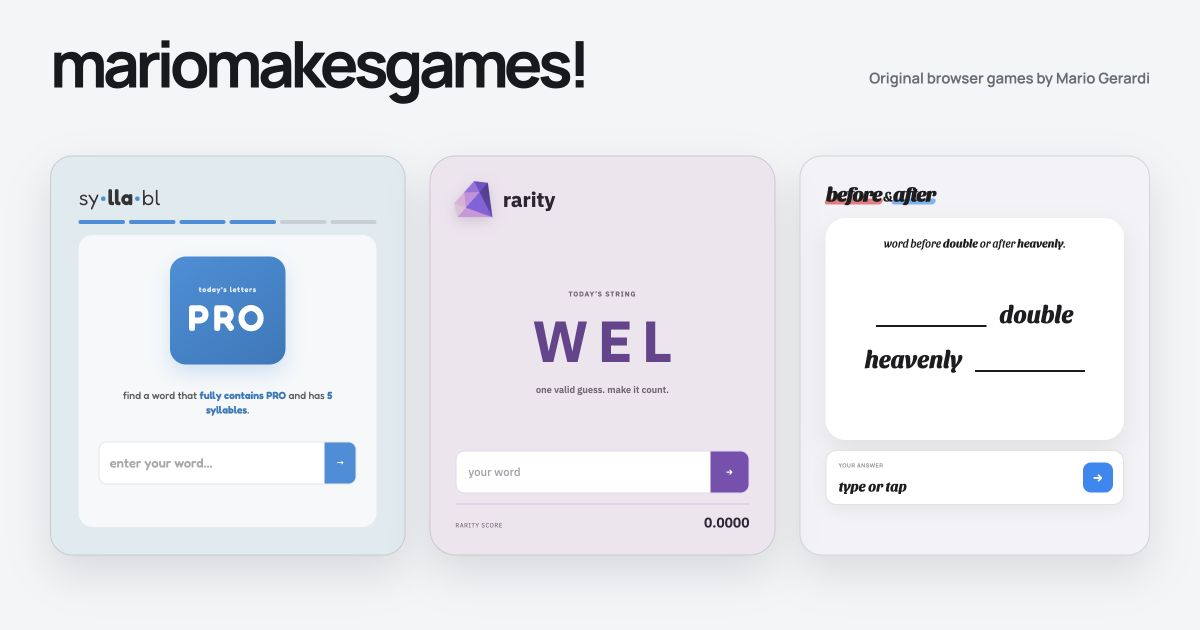
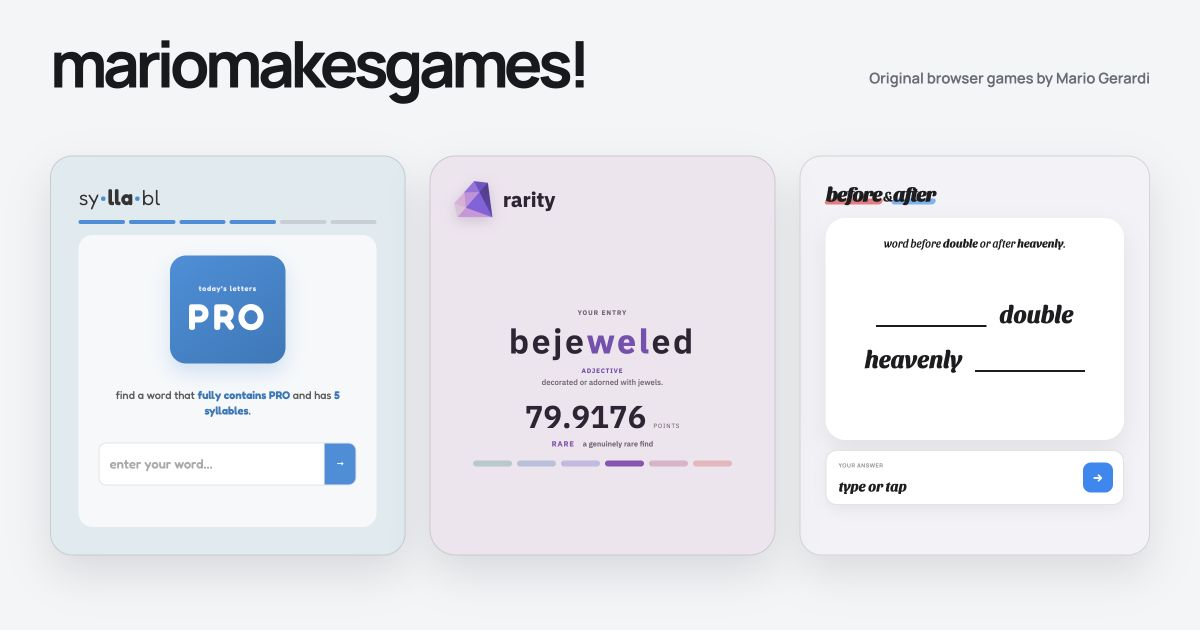
Give Rarity cameo an authentic result state

diff --git a/app/globals.css b/app/globals.css
@@ -19036,7 +19036,7 @@ body:has(.syllabl-game-card .syllabl-play) {
 .site-frame:not([data-game]) .preview-syllabl-panel > p {
   max-width: 96%;
   margin: 0 auto;
-  font-size: clamp(.62rem, .86vw, .74rem);
+  font-size: clamp(.68rem, .92vw, .8rem);
   line-height: 1.4;
 }
 
@@ -19082,6 +19082,126 @@ body:has(.syllabl-game-card .syllabl-play) {
   font: 550 clamp(.58rem, .78vw, .69rem) "IBM Plex Sans", var(--sans);
   line-height: 1.35;
   text-align: center;
+}
+
+.site-frame:not([data-game]) .preview-rarity-result {
+  display: grid;
+  flex: 1;
+  width: 100%;
+  align-content: center;
+  justify-items: center;
+  color: #2f2434;
+  animation: preview-rarity-result-in 260ms ease both;
+}
+
+.site-frame:not([data-game]) .preview-rarity-result > small {
+  color: #746775;
+  font: 750 clamp(.4rem, .55vw, .49rem) "IBM Plex Sans", var(--sans);
+  letter-spacing: .14em;
+  text-transform: uppercase;
+}
+
+.site-frame:not([data-game]) .preview-rarity-result > strong {
+  max-width: 100%;
+  margin-top: 7px;
+  overflow-wrap: anywhere;
+  font: 600 clamp(1.55rem, 2.8vw, 2.35rem) "IBM Plex Sans", var(--sans);
+  letter-spacing: .08em;
+  line-height: 1;
+  text-transform: lowercase;
+}
+
+.site-frame:not([data-game]) .preview-rarity-result mark {
+  color: #7b4eb2;
+  background: transparent;
+  font-weight: 650;
+}
+
+.site-frame:not([data-game]) .preview-rarity-definition {
+  display: grid;
+  gap: 2px;
+  max-width: 92%;
+  margin: 9px 0 0;
+  color: #746775;
+  font: 500 clamp(.48rem, .65vw, .58rem) "IBM Plex Sans", var(--sans);
+  line-height: 1.35;
+  text-align: center;
+}
+
+.site-frame:not([data-game]) .preview-rarity-definition em {
+  color: #7b4eb2;
+  font-size: .82em;
+  font-style: normal;
+  font-weight: 650;
+  letter-spacing: .12em;
+  text-transform: uppercase;
+}
+
+.site-frame:not([data-game]) .preview-rarity-result-score {
+  display: flex;
+  gap: 7px;
+  align-items: baseline;
+  margin-top: 13px;
+  font-family: "IBM Plex Sans", var(--sans);
+}
+
+.site-frame:not([data-game]) .preview-rarity-result-score b {
+  font-size: clamp(1.45rem, 2.6vw, 2.15rem);
+  font-weight: 600;
+  font-variant-numeric: tabular-nums;
+  line-height: 1;
+}
+
+.site-frame:not([data-game]) .preview-rarity-result-score span {
+  color: #746775;
+  font-size: clamp(.38rem, .5vw, .46rem);
+  letter-spacing: .14em;
+  text-transform: uppercase;
+}
+
+.site-frame:not([data-game]) .preview-rarity-result-tier {
+  display: flex;
+  gap: 8px;
+  align-items: baseline;
+  margin-top: 7px;
+  font: 550 clamp(.45rem, .62vw, .56rem) "IBM Plex Sans", var(--sans);
+}
+
+.site-frame:not([data-game]) .preview-rarity-result-tier b {
+  color: #8d52b5;
+  letter-spacing: .12em;
+  text-transform: uppercase;
+}
+
+.site-frame:not([data-game]) .preview-rarity-result-tier span { color: #746775; }
+
+.site-frame:not([data-game]) .preview-rarity-tier-track {
+  display: grid;
+  grid-template-columns: repeat(6, 1fr);
+  gap: 5px;
+  width: min(88%, 290px);
+  margin-top: 12px;
+}
+
+.site-frame:not([data-game]) .preview-rarity-tier-track i {
+  height: 6px;
+  border-radius: 999px;
+}
+
+.site-frame:not([data-game]) .preview-rarity-tier-track i:nth-child(1) { background: rgb(47 143 131 / .32); }
+.site-frame:not([data-game]) .preview-rarity-tier-track i:nth-child(2) { background: rgb(71 118 184 / .32); }
+.site-frame:not([data-game]) .preview-rarity-tier-track i:nth-child(3) { background: rgb(106 96 200 / .32); }
+.site-frame:not([data-game]) .preview-rarity-tier-track i:nth-child(4) { background: rgb(141 82 181 / .32); }
+.site-frame:not([data-game]) .preview-rarity-tier-track i:nth-child(5) { background: rgb(182 70 122 / .32); }
+.site-frame:not([data-game]) .preview-rarity-tier-track i:nth-child(6) { background: rgb(217 79 82 / .32); }
+.site-frame:not([data-game]) .preview-rarity-tier-track i.is-current {
+  background: #8d52b5;
+  box-shadow: 0 0 0 2px #eee5ef;
+}
+
+@keyframes preview-rarity-result-in {
+  from { opacity: 0; transform: translateY(5px); }
+  to { opacity: 1; transform: translateY(0); }
 }
 
 .site-frame:not([data-game]) .preview-rarity-entry {

diff --git a/src/app-shell/hero-game-previews.tsx b/src/app-shell/hero-game-previews.tsx
@@ -27,7 +27,7 @@ function useCenteredDemo(answer: string) {
 
   useEffect(() => {
     const card = cardRef.current;
-    const gallery = card?.closest(".hero-gallery");
+    const gallery = card?.closest(".hero-gallery, .social-card-render__games");
     const prefersReducedMotion = window.matchMedia("(prefers-reduced-motion: reduce)").matches;
     if (!card || !gallery || prefersReducedMotion) return;
 
@@ -184,26 +184,39 @@ function RarityPreview() {
         <span>rarity</span>
       </div>
       <div className="preview-rarity-panel">
-        <div className="preview-rarity-string-block">
-          <small>today’s string</small>
-          <strong>WEL</strong>
-          <p>
-            {phase === "submitted"
-              ? "checking the field…"
-              : phase === "feedback"
-                ? "accepted. your one guess is locked."
-                : "one valid guess. make it count."}
-          </p>
-        </div>
-        <div className="preview-rarity-entry">
-          <span className="preview-entry-value" data-preview-entry>
-            {typedAnswer || "your word"}
-          </span>
-          <b>{phase === "feedback" ? "✓" : "→"}</b>
-        </div>
-        <div className="preview-rarity-score">
-          <span>rarity score</span><b data-preview-score>{displayScore}</b>
-        </div>
+        {phase === "feedback" ? (
+          <div className="preview-rarity-result">
+            <small>your entry</small>
+            <strong>beje<mark>wel</mark>ed</strong>
+            <p className="preview-rarity-definition">
+              <em>adjective</em>
+              <span>decorated or adorned with jewels.</span>
+            </p>
+            <div className="preview-rarity-result-score">
+              <b data-preview-score>{displayScore}</b><span>points</span>
+            </div>
+            <div className="preview-rarity-result-tier">
+              <b>rare</b><span>a genuinely rare find</span>
+            </div>
+            <div className="preview-rarity-tier-track" aria-hidden="true">
+              <i /><i /><i /><i className="is-current" /><i /><i />
+            </div>
+          </div>
+        ) : (
+          <>
+            <div className="preview-rarity-string-block">
+              <small>today’s string</small>
+              <strong>WEL</strong>
+              <p>{phase === "submitted" ? "checking the field…" : "one valid guess. make it count."}</p>
+            </div>
+            <div className="preview-rarity-entry">
+              <span className="preview-entry-value" data-preview-entry>
+                {typedAnswer || "your word"}
+              </span>
+              <b>→</b>
+            </div>
+          </>
+        )}
       </div>
     </div>
   );
